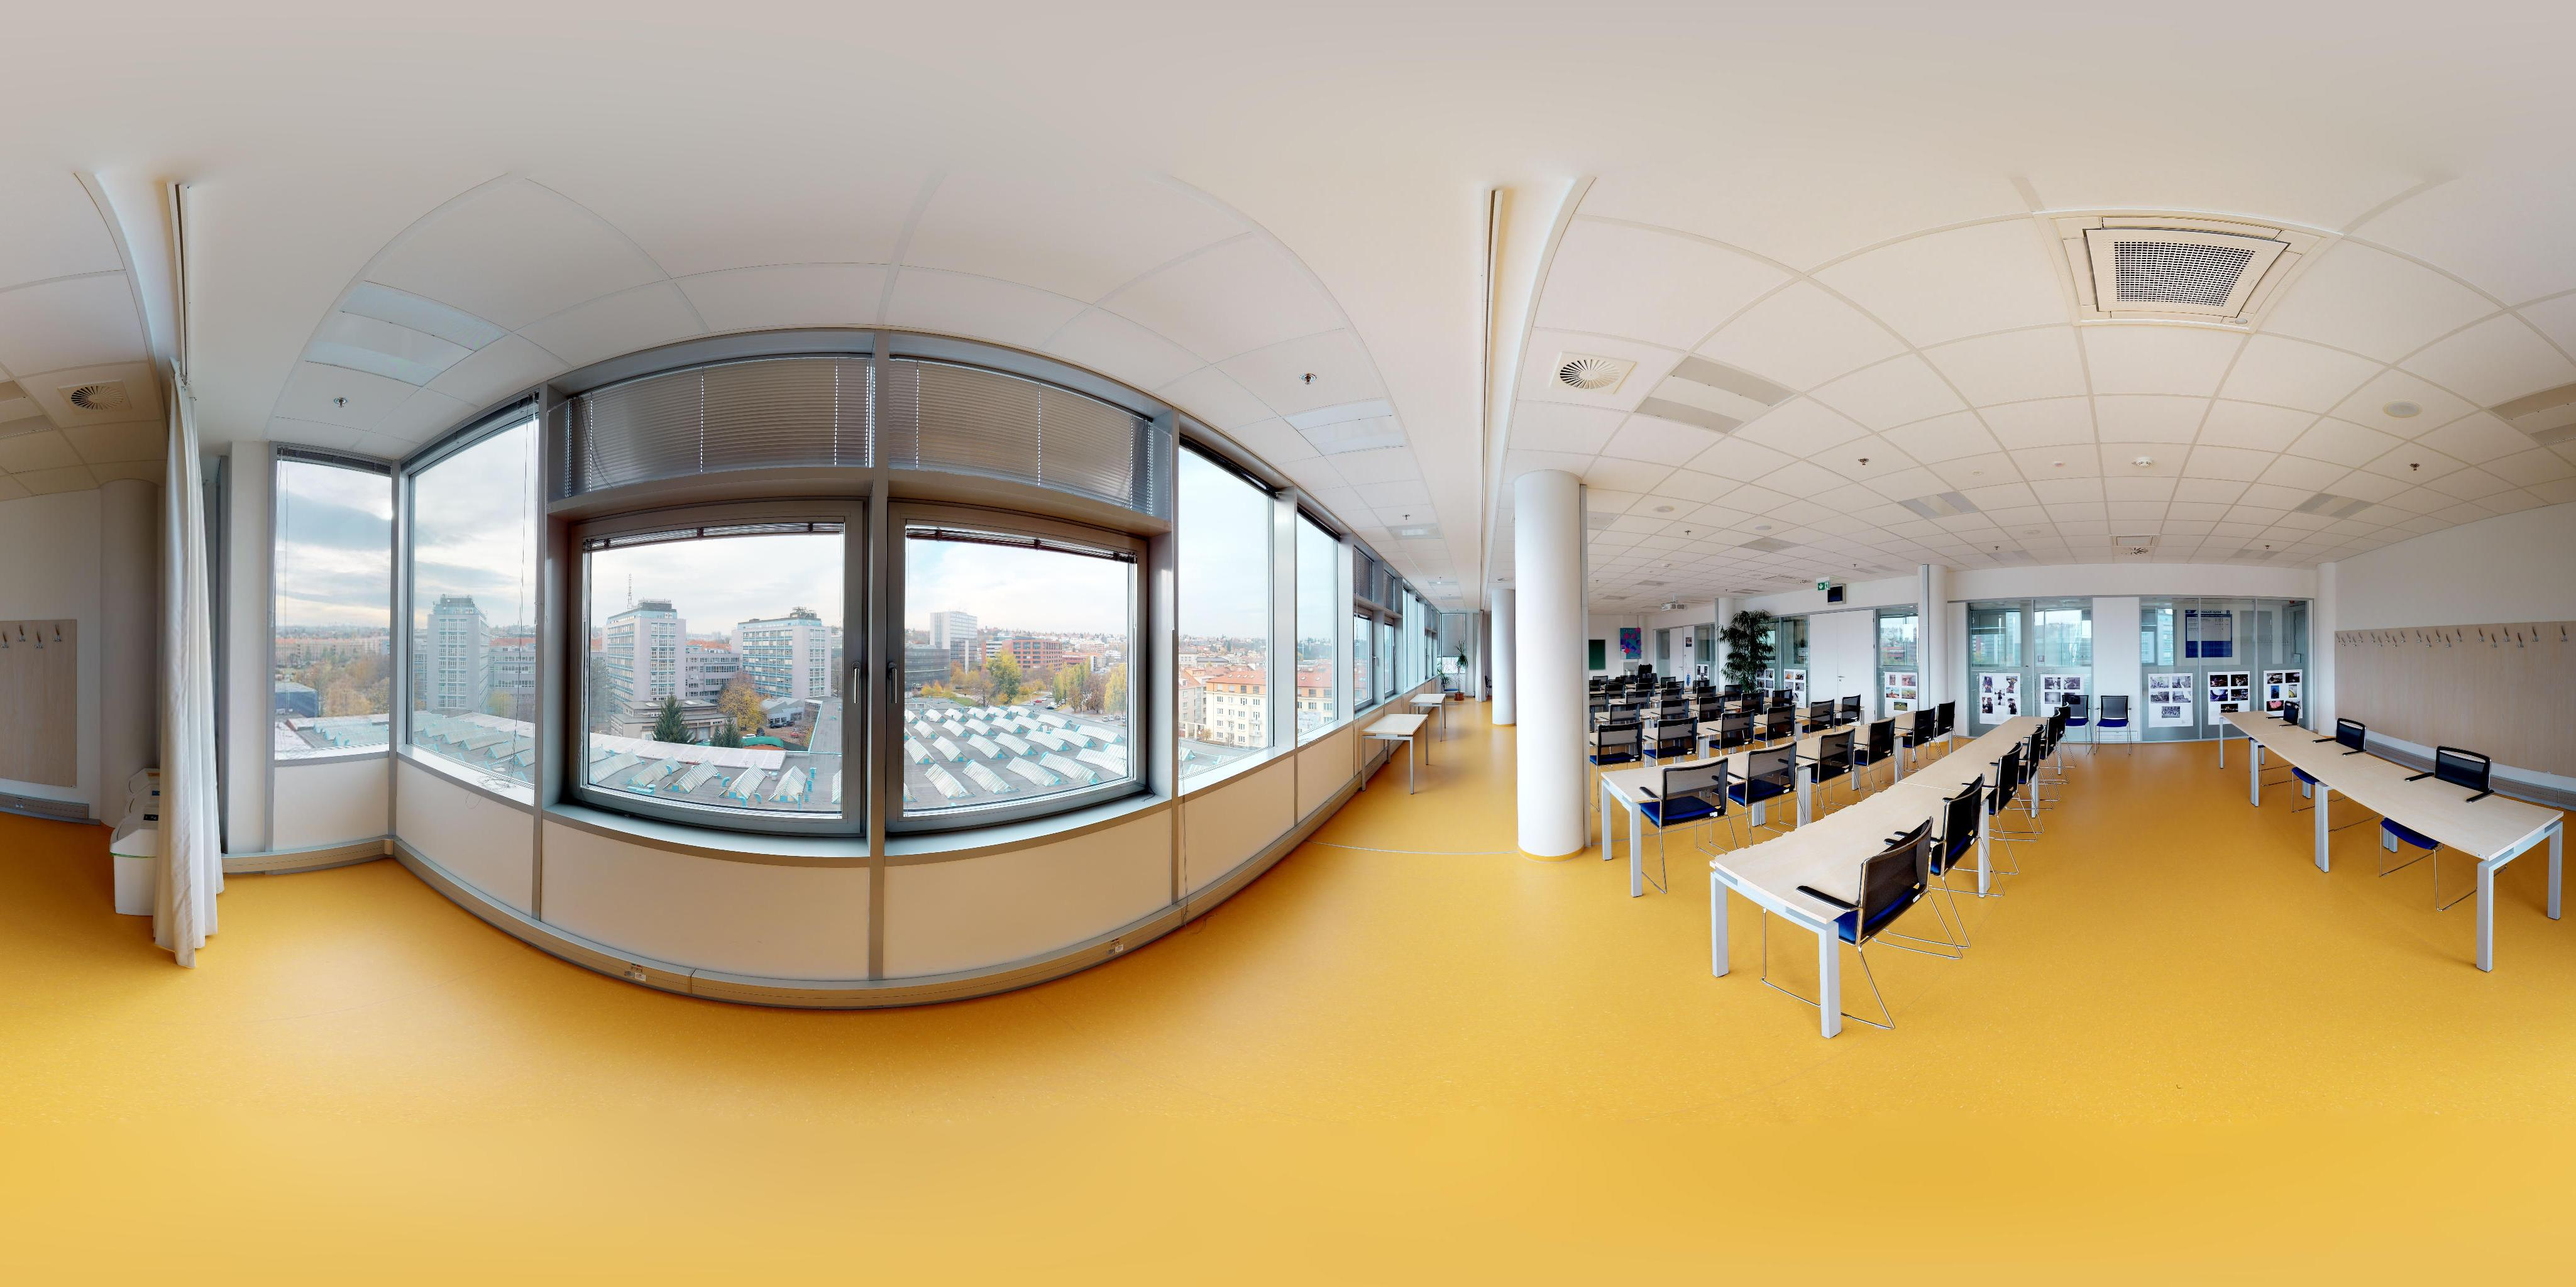
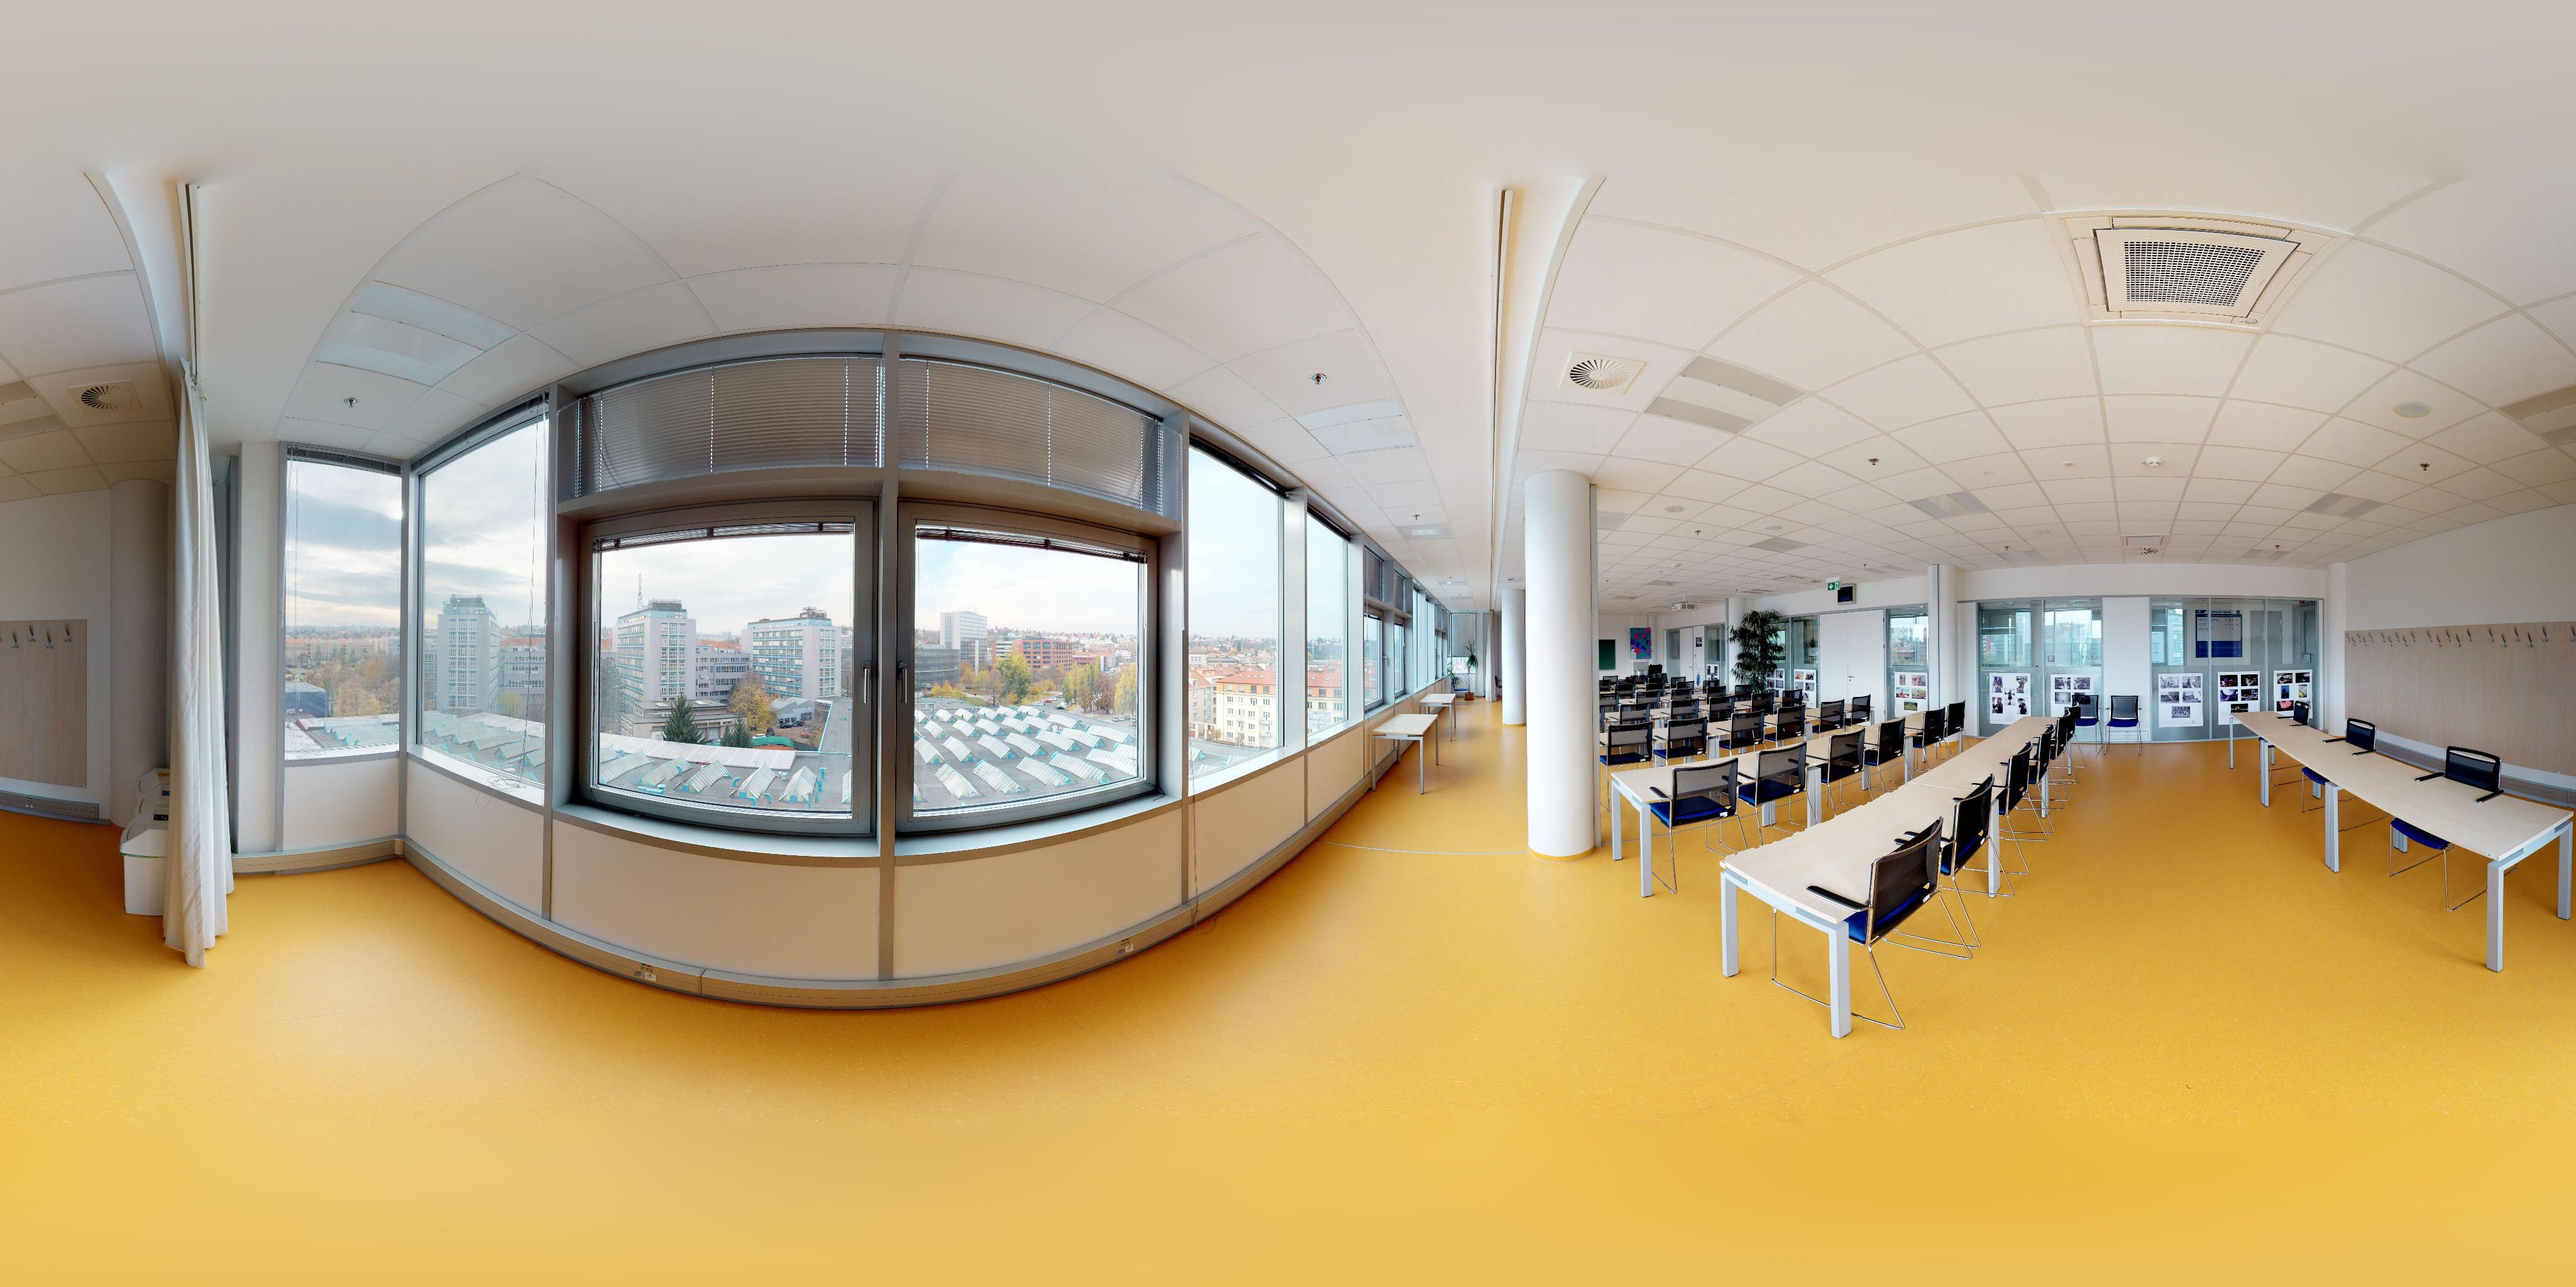
update rotated panoramas, introduce goodness

diff --git a/findRotation.m b/findRotation.m
@@ -1,4 +1,7 @@
-function [xMid, panorama, bestIdx, diffs] = findRotation(projectedPointCloud, panoramaProjections, panoImg)
+function [xMid, panorama, idx, diffs] = findRotation(projectedPointCloud, ...
+    panoramaProjections, panoImg, goodness)
+% goodness: which sorted loss to prefer. Default should be 1, which means
+% the panorama with lowest loss is chosen
 
 pointCloudPerspective = rgb2gray(projectedPointCloud);
 
@@ -19,10 +22,10 @@ for i=1:nCandidates
     losses(i,1) = sum(diffs(i).img(:)==255);
 end
 
-[sorted, idx] = sort(losses);
+[sorted, indices] = sort(losses);
 
-bestIdx = idx(1);
-panorama = panoramaProjections(bestIdx).img;
+idx = indices(goodness);
+panorama = panoramaProjections(idx).img;
 
-xMid = ((panoramaProjections(bestIdx).vx + pi) / (2*pi)) * size(panoImg, 2);
+xMid = ((panoramaProjections(idx).vx + pi) / (2*pi)) * size(panoImg, 2);
 xMid = round(xMid);

diff --git a/rotatePanoramas.m b/rotatePanoramas.m
@@ -1,7 +1,8 @@
 localIds = [2 3 4 5 6 7 8 9 10 11 12 13 15, ...
             16 20 21 22 23 24 25 26 27 28 29 30 31, ...
             32 33 35 36 37];
-        
+localIds = [11];
+
 load('sweepData.mat');
 pc = pcread('matterpak_sehs6V3VnSW/cloud - rotated.ply');
 
@@ -32,8 +33,9 @@ panoramaProjections = projectPanorama(panoImg, viewSize, fov, nViews);
 %plotMany(panoramaProjections);
 
 %% Find best rotation
-[xMid, panorama, bestIdx, diffs] = findRotation(projectedPointCloud, panoramaProjections, panoImg);
-sprintf('Best match: panorama #%d', bestIdx)
+goodness = sweepRecord.goodness;
+[xMid, panorama, panoIdx, diffs] = findRotation(projectedPointCloud, panoramaProjections, panoImg, goodness);
+sprintf('Found match: panorama #%d', panoIdx)
 figure(3);
 imshowpair(projectedPointCloud, panorama, 'montage');
 saveas(gcf, sprintf('panoramas2pointClouds/%d.jpg', localId), 'jpg');
